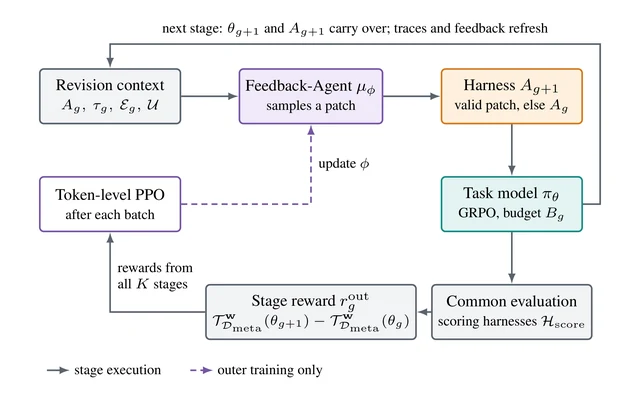
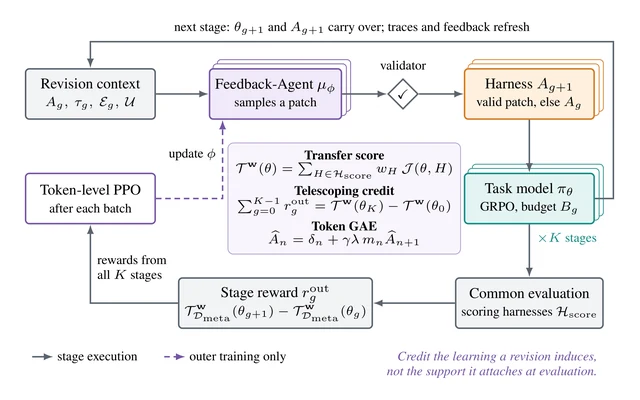
Fill and enrich the TAME thumbnail
Add the paper's key quantities in the empty middle cell (transfer
score, telescoping stage credit, token GAE), a validator diamond on the
patch arrow, stacked "x K stages" shadows behind the per-stage boxes,
and the paper's key insight under the diagram.

Changed region(s): [[0.0312, 0.06, 0.9688, 0.96], [0.0625, 0.87, 0.25, 0.96]]

diff --git a/images/publications/tikz/tame.tex b/images/publications/tikz/tame.tex
@@ -5,7 +5,7 @@
 \documentclass[tikz,border=1pt]{standalone}
 \usepackage{times}
 \usepackage{amsmath,amssymb}
-\usetikzlibrary{arrows.meta,calc,positioning}
+\usetikzlibrary{arrows.meta,backgrounds,calc,positioning,shapes.geometric}
 \definecolor{tameteal}{HTML}{178A83}
 \definecolor{tametealfill}{HTML}{E2F5F2}
 \definecolor{tameorange}{HTML}{D47A1F}
@@ -23,31 +23,56 @@
   stage/.style={draw=tamegray,fill=tamegrayfill,rounded corners=2pt,thick,align=center,
     inner sep=3pt,font=\footnotesize,minimum width=2.45cm,minimum height=0.95cm},
   sub/.style={font=\scriptsize},
-  update/.style={-{Latex[length=1.8mm]},thick,draw=tamepurple,densely dashed}]
-% Row 1: revision context -> Feedback-Agent -> harness.
+  update/.style={-{Latex[length=1.8mm]},thick,draw=tamepurple,densely dashed},
+  stack/.style={draw=#1,fill=white,rounded corners=2pt,thin}]
+% Row 1: revision context -> Feedback-Agent -> validator -> harness.
 \node[stage] (ctx) {Revision context\\{\scriptsize$A_g,\ \tau_g,\ \mathcal E_g,\ \mathcal U$}};
 \node[stage,draw=tamepurple,fill=tamepurplefill,right=1.0cm of ctx] (fa) {Feedback-Agent $\mu_\phi$\\{\scriptsize samples a patch}};
-\node[stage,draw=tameorange,fill=tameorangefill,right=1.0cm of fa] (h) {Harness $A_{g+1}$\\{\scriptsize valid patch, else $A_g$}};
+\node[stage,draw=tameorange,fill=tameorangefill,right=2.3cm of fa] (h) {Harness $A_{g+1}$\\{\scriptsize valid patch, else $A_g$}};
+\node[diamond,draw=tamegray,fill=white,thick,inner sep=1.2pt,font=\scriptsize] (val) at ($(fa.east)!0.5!(h.west)$) {$\checkmark$};
+\node[sub,above=1pt of val] {validator};
 % Right column going down: task model -> common evaluation.
-\node[stage,draw=tameteal,fill=tametealfill,below=0.9cm of h] (tm) {Task model $\pi_\theta$\\{\scriptsize GRPO, budget $B_g$}};
-\node[stage,below=0.9cm of tm] (ev) {Common evaluation\\{\scriptsize scoring harnesses $\Escore$}};
-% Middle column going up: stage reward -> token-level PPO -> Feedback-Agent.
+\node[stage,draw=tameteal,fill=tametealfill,below=1.0cm of h] (tm) {Task model $\pi_\theta$\\{\scriptsize GRPO, budget $B_g$}};
+\node[stage,below=1.0cm of tm] (ev) {Common evaluation\\{\scriptsize scoring harnesses $\Escore$}};
+% Middle column: stage reward; left column: token-level PPO.
 \node[stage] (rw) at (fa |- ev)
   {Stage reward $r_g^{\mathrm{out}}$\\{\scriptsize$\Tscore_{\MetaTrain}^{\mathbf w}(\theta_{g+1})-\Tscore_{\MetaTrain}^{\mathbf w}(\theta_g)$}};
 \node[stage,draw=tamepurple,fill=white] (ppo) at (ctx |- tm) {Token-level PPO\\{\scriptsize after each batch}};
+% K stages: stacked copies behind the per-stage boxes.
+\begin{scope}[on background layer]
+  \foreach \n/\c in {fa/tamepurple,h/tameorange,tm/tameteal} {
+    \draw[stack=\c] ($(\n.south west)+(0.16,0.16)$) rectangle ($(\n.north east)+(0.16,0.16)$);
+    \draw[stack=\c] ($(\n.south west)+(0.08,0.08)$) rectangle ($(\n.north east)+(0.08,0.08)$);
+  }
+\end{scope}
+\node[sub,anchor=north east,text=tameteal] at ($(tm.south east)+(0.16,-0.04)$) {$\times K$ stages};
+% Arrows.
 \draw[flow] (ctx) -- (fa);
-\draw[flow] (fa) -- (h);
+\draw[flow] (fa) -- (val);
+\draw[flow] (val) -- (h);
 \draw[flow] (h) -- (tm);
 \draw[flow] (tm) -- (ev);
 \draw[flow] (ev) -- (rw);
 \draw[flow] (rw.west) -| node[pos=0.72,right,sub,align=left] {rewards from\\all $K$ stages} (ppo.south);
-\draw[update] (ppo.east) -| node[pos=0.75,right,sub] {update $\phi$} (fa.south);
+\draw[update] (ppo.east) -| node[pos=0.78,left,sub] {update $\phi$} ([xshift=-1.0cm]fa.south);
 % Next stage: loop from the task model back to the revision context over the top.
-\draw[flow] (tm.east) -- ++(0.3,0) |- ($(ctx.north)+(0,0.42)$) node[pos=0.75,above,sub,align=center]
+\draw[flow] (tm.east) -- ++(0.35,0) |- ($(ctx.north)+(0,0.5)$) node[pos=0.75,above,sub,align=center]
   {next stage: $\theta_{g+1}$ and $A_{g+1}$ carry over; traces and feedback refresh} -- (ctx.north);
-% Legend.
-\node[sub,anchor=north west] at ($(ctx.west |- rw.south)+(0,-0.3)$)
+% Key quantities (Section 4 of the paper).
+\node[draw=tamepurple!60,fill=tamepurplefill!45,rounded corners=3pt,thin,align=center,inner sep=4pt,
+      font=\scriptsize] (eqs)
+  at ($([xshift=-1.0cm]fa.south |- tm)!0.5!(tm.west)+(0.02,0)$)
+  {\textbf{Transfer score}\\[-1pt]
+   \mbox{$\Tscore^{\mathbf w}(\theta)=\sum_{H\in\Escore} w_H\,\mathcal J(\theta,H)$}\\[3pt]
+   \textbf{Telescoping credit}\\[-1pt]
+   \mbox{$\sum_{g=0}^{K-1} r_g^{\mathrm{out}}=\Tscore^{\mathbf w}(\theta_K)-\Tscore^{\mathbf w}(\theta_0)$}\\[3pt]
+   \textbf{Token GAE}\\[-1pt]
+   \mbox{$\widehat A_n=\delta_n+\gamma\lambda\, m_n\widehat A_{n+1}$}};
+% Legend and the paper's key insight.
+\node[sub,anchor=north west] (leg) at ($(ctx.west |- rw.south)+(0,-0.3)$)
   {\tikz[baseline=-0.6ex]\draw[flow] (0,0) -- (0.4,0);\ stage execution\qquad
    \tikz[baseline=-0.6ex]\draw[update] (0,0) -- (0.4,0);\ outer training only};
+\node[sub,anchor=north east,align=right,text=tamepurple] at ($(ev.east |- rw.south)+(0,-0.3)$)
+  {\textit{Credit the learning a revision induces,}\\\textit{not the support it attaches at evaluation.}};
 \end{tikzpicture}
 \end{document}
